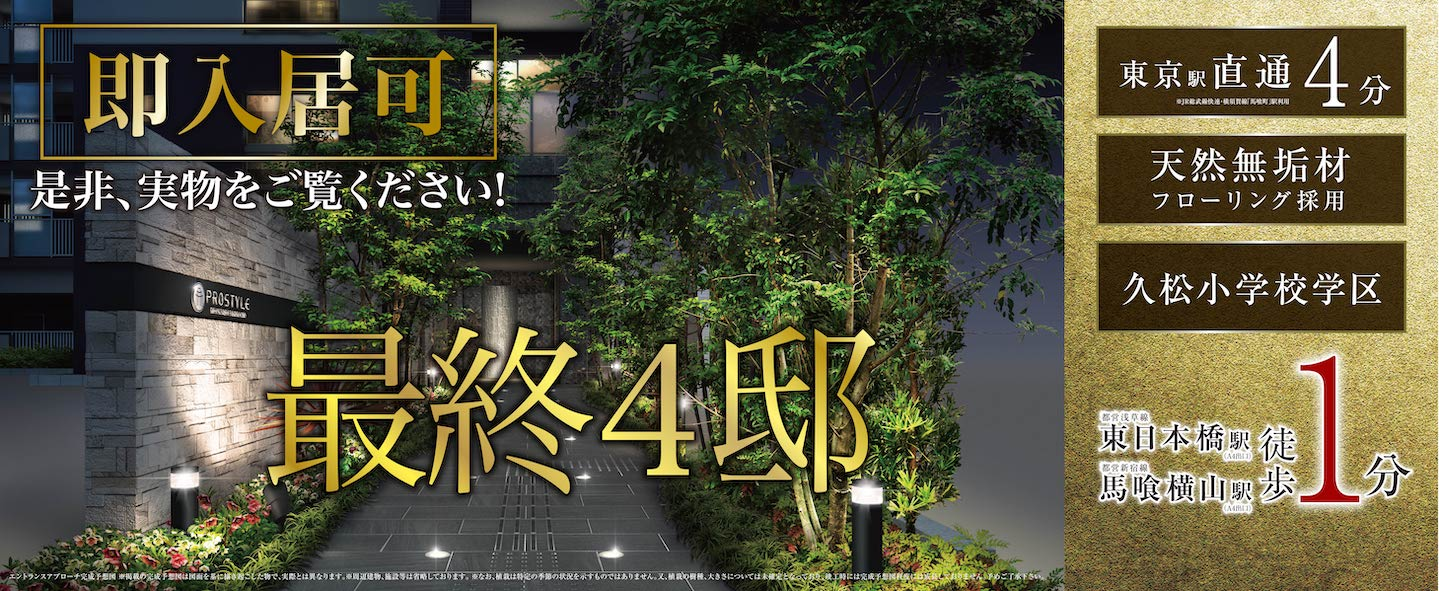
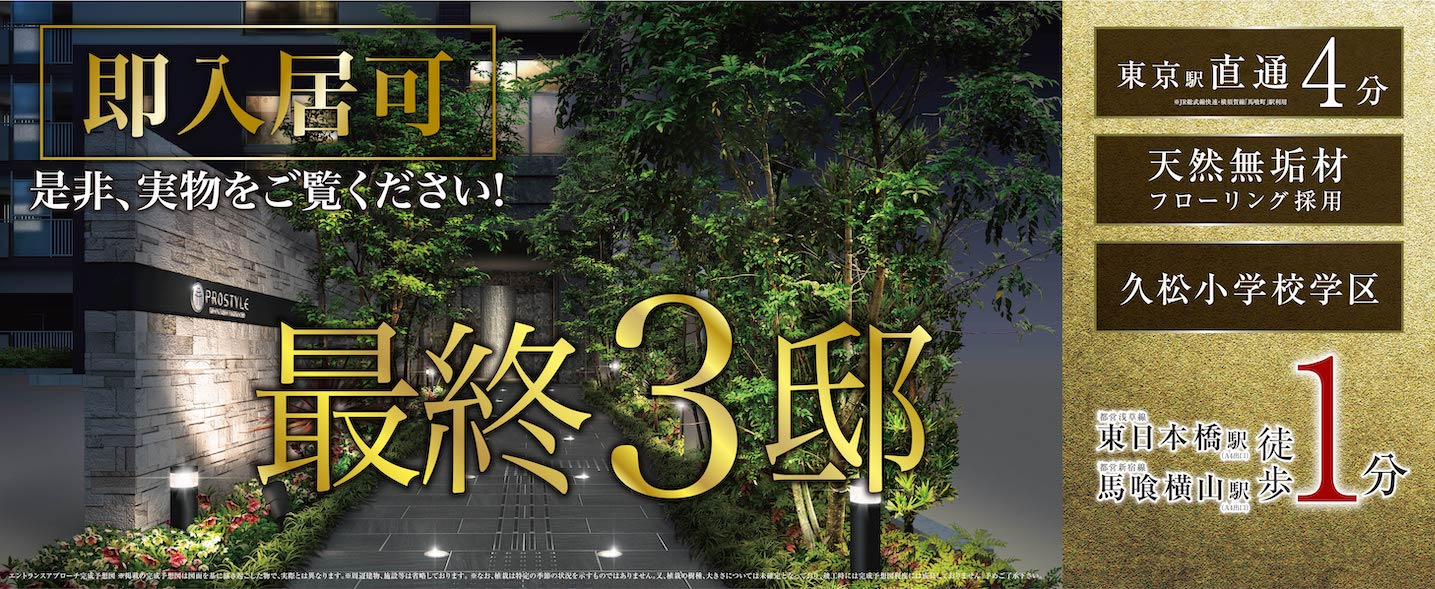
update information for prostyle-residence

diff --git a/prostyle-residence/www/nihonbashibakurocho/index.html b/prostyle-residence/www/nihonbashibakurocho/index.html
@@ -172,8 +172,8 @@ j=d.createElement(s),dl=l!='dataLayer'?'&l='+l:'';j.async=true;j.src=
 			    <!-- 3 --><!--<li><a href="plan/" class="popup" data-name="map" data-size="900,900" data-option="menubar=no, toolbar=no, scrollbars=yes"><img src="assets/images/top/181109btn-top03.png" alt="68m2超 x 角住戸 = 6,399万円～"></a></li>-->
 			</ul>
 			<p class="notice">※1：りそな銀行、変動金利0.47％（平成31年1月現在）、元利均等35年返済の場合。詳細は「ローンのご案内」を参照ください。■ローンのご案内●金融機関：りそな銀行●融資金利：変動金利0.47％（基準金利：2.475％▲2.005％）※金利は年2回見直しされますが、返済額は適用金利が変わっても5年間一定で、5年ごとに調整されます（ただし、前返済額の1.25倍が限度）●お借入金額：50万円以上1億円以下（10万円単位）●ご返済期間：1年以上35年以内●販売価格に対する融資限度額の割合／100％以内●事務手数料：お借入金額の2.16％(消費税等込)※お申込に際し、所定の審査をさせていただきます。審査により、ご希望に添えない場合がございますので、あらかじめご了承ください。※お借入後に条件を変更する場合は、手数料がかかる場合がございます。<br>
-			※2：Dタイプ借入金額/7,190万円、毎月返済額（年12回）/185,690円（月々元本/7,190万円）<br>
-			※3：Fタイプ借入金額/7,490万円、毎月返済額（年12回）/193,438円（月々元本/7,490万円）
+			※2：Dタイプ借入金額/7,899万円、毎月返済額（年12回）/204,000円（月々元本/7,899万円）<br>
+			※3：Fタイプ借入金額/7,499万円、毎月返済額（年12回）/193,670円（月々元本/7,499万円）
 		</div>
 		<div class="section07 section">
 			<div class="top-campaign-box">
@@ -191,7 +191,7 @@ j=d.createElement(s),dl=l!='dataLayer'?'&l='+l:'';j.async=true;j.src=
 						</ul>
 
 							</div>
-					<p class="notice">※4：303号室、804号室は対象外住戸となります。今後、価格改定などで対象外住戸となる場合がございますので、ご了承ください。また、予告なく終了する場合がございますのでご了承ください。<br>
+					<p class="notice">※4：303号室は対象外住戸となります。今後、価格改定などで対象外住戸となる場合がございますので、ご了承ください。また、予告なく終了する場合がございますのでご了承ください。<br>
 						※5：Fタイプ・63.08㎡・1203号室、2018年12月より、モデルルームとして使用しております。現況有姿でのお引渡しとなります。詳しくは係員までお尋ねください。
 					<!--※2：2018年3月5日より、Aタイプ501号室の価格を6,199万円に価格変更いたしました。（旧価格6,399万円　販売時期：2017年8月19日～2018年3月4日）<br>
 					※3：2018年3月5日より、Aタイプ601号室の価格を6,299万円に価格変更いたしました。（旧価格6,479万円　販売時期：2017年10月11日～2018年3月4日）<br>

diff --git a/prostyle-residence/www/nihonbashibakurocho/outline/index.html b/prostyle-residence/www/nihonbashibakurocho/outline/index.html
@@ -239,7 +239,7 @@ j=d.createElement(s),dl=l!='dataLayer'?'&l='+l:'';j.async=true;j.src=
 	      <table summary="「プロスタイル日本橋馬喰町」先着順販売概要" class="tbl-outline tbl-default">
 					<tbody><tr>
 						<th>販売戸数</th>
-						<td>4戸</td>
+						<td>3戸</td>
 					</tr>
 					<tr>
 					  <th>販売価格</th>
